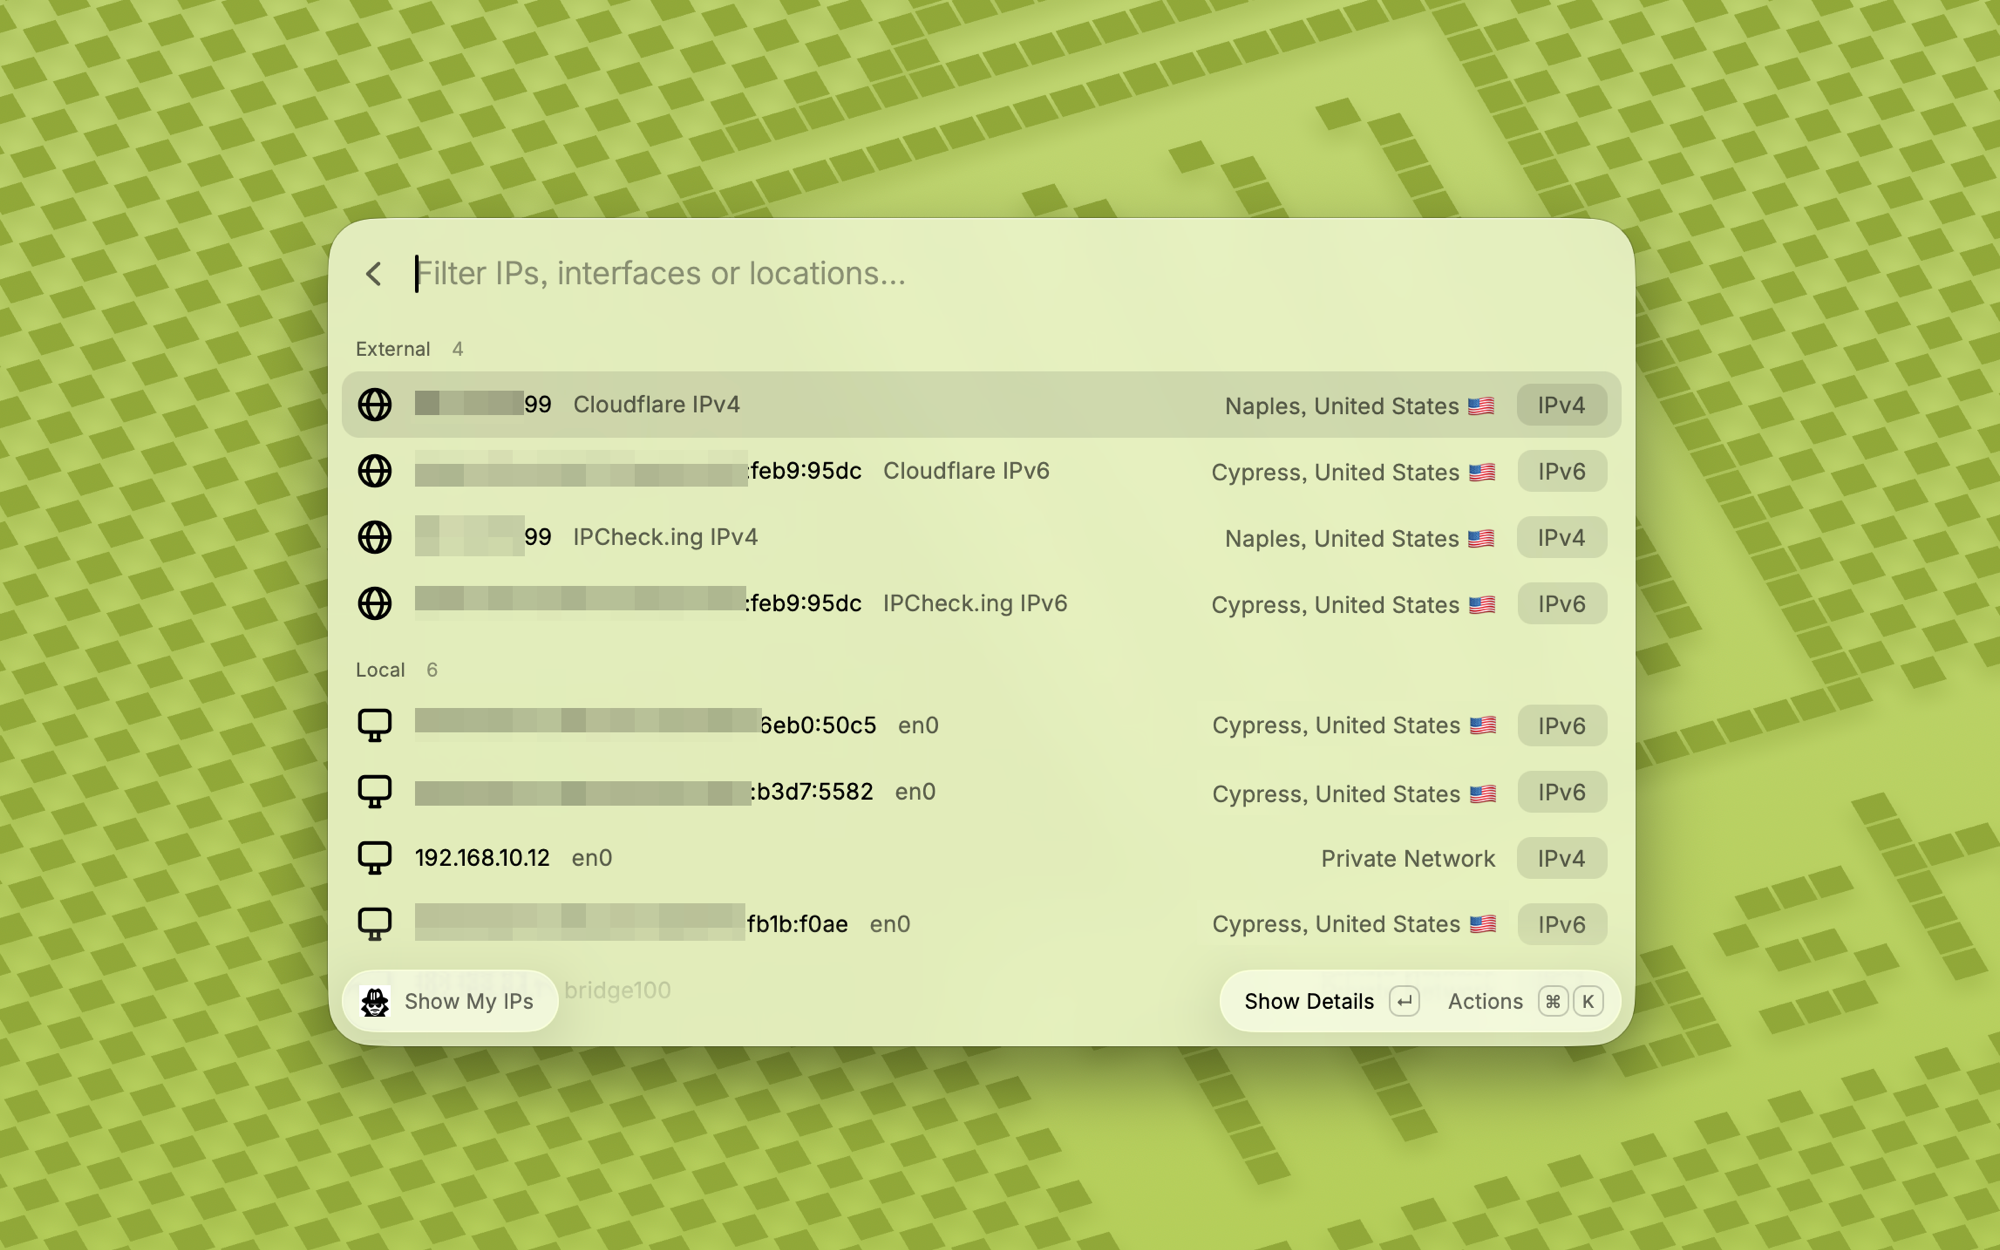
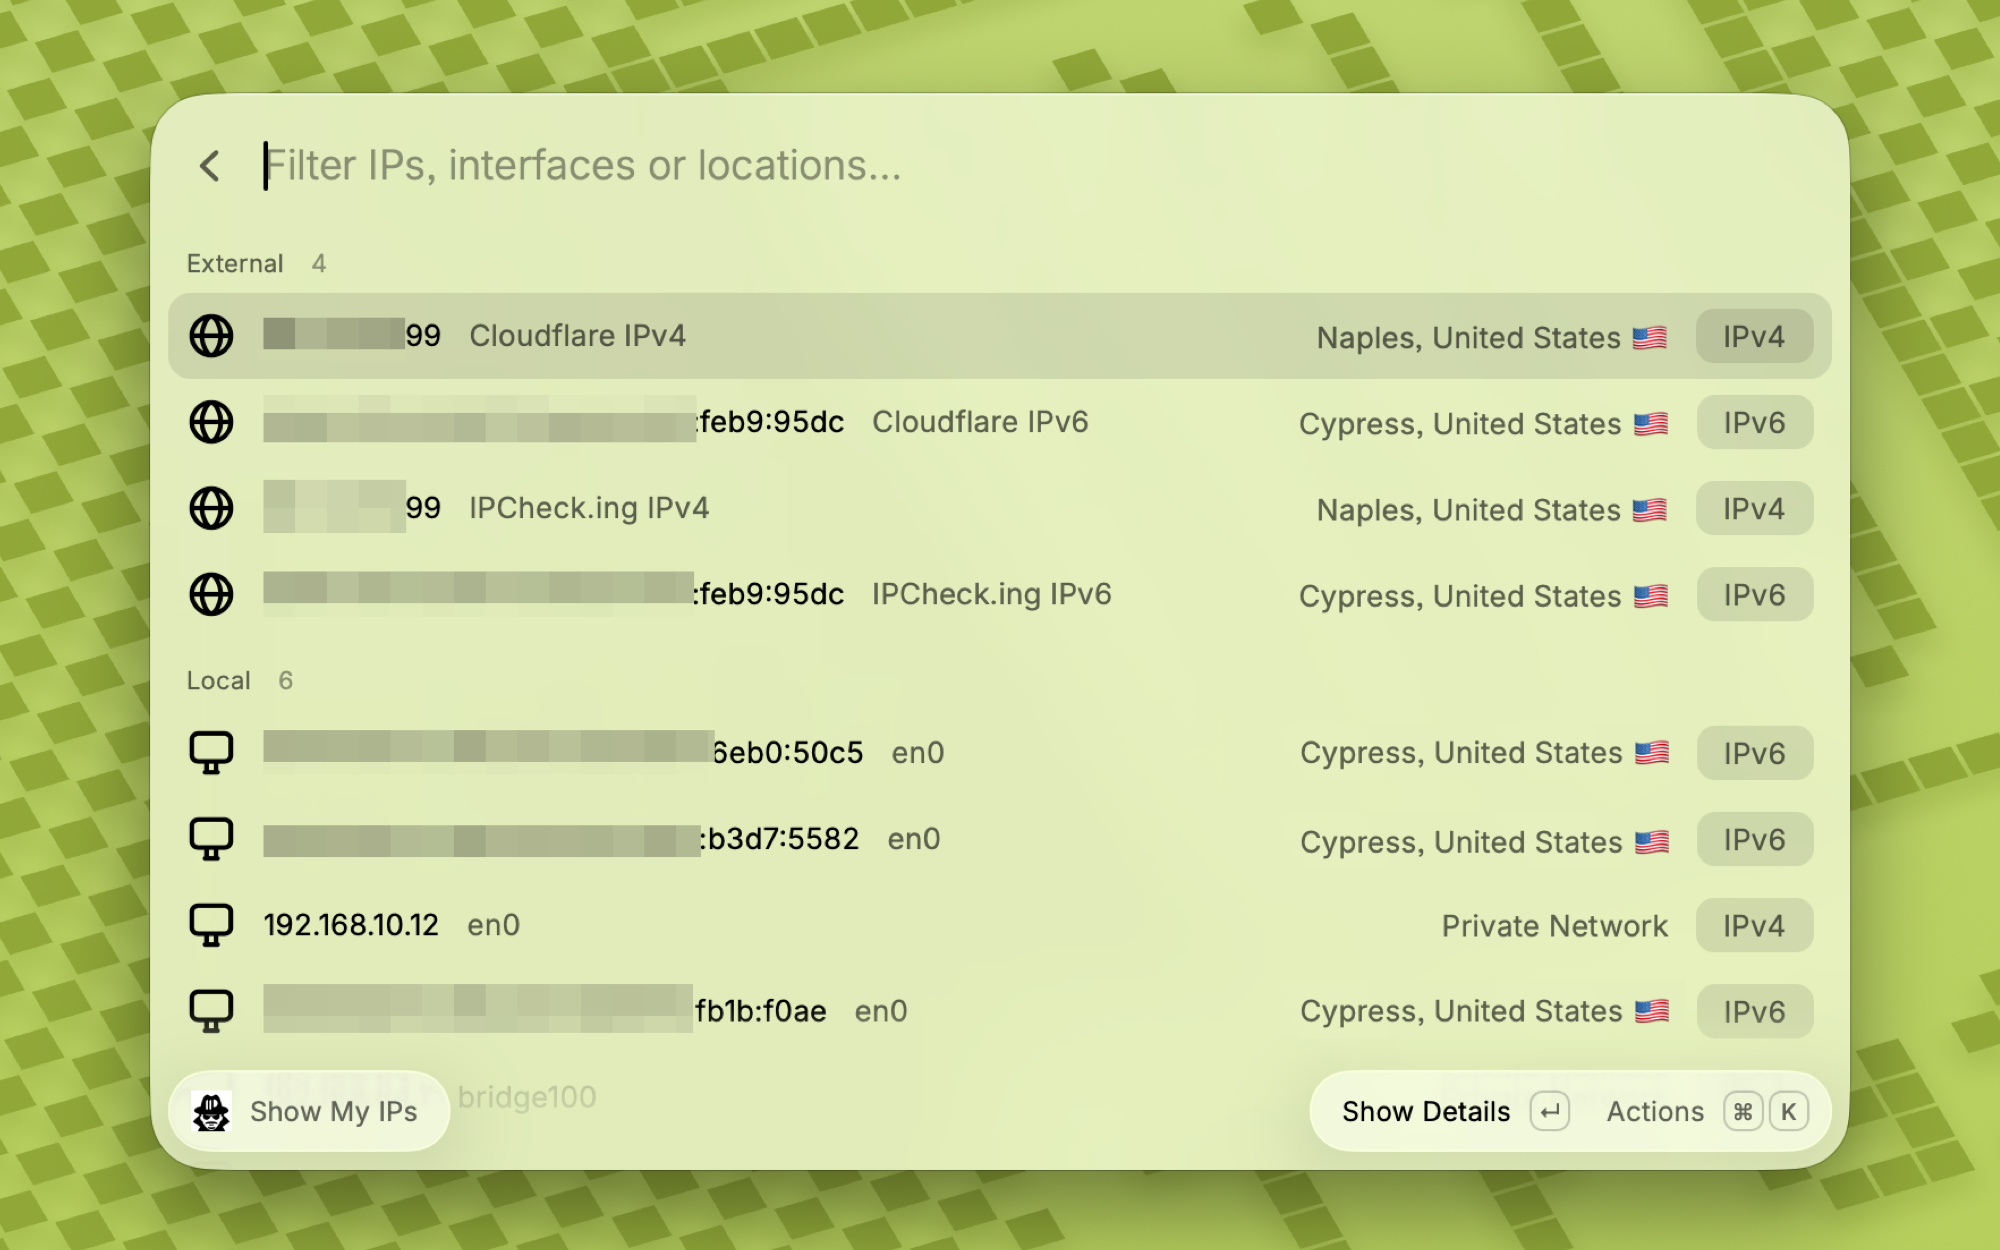
Update ipcheck-ing extension
- Change Screenshots
- fix: accept IPv4-mapped IPv6 addresses in Query IP

diff --git a/extensions/ipcheck-ing/src/lib/valid-ip.ts b/extensions/ipcheck-ing/src/lib/valid-ip.ts
@@ -14,9 +14,19 @@ export function isValidIP(ip: string): boolean {
   const hasCompressedGroup = doubleColonParts.length === 2;
   const groups = doubleColonParts.flatMap((part) => (part === "" ? [] : part.split(":")));
 
+  // An IPv4-mapped or IPv4-embedded tail ("::ffff:192.0.2.1") is a dotted quad in the last
+  // group, standing in for two hextets (RFC 4291 §2.5.5).
+  let hextetCount = groups.length;
+  const lastGroup = groups[groups.length - 1];
+  if (lastGroup !== undefined && lastGroup.includes(".")) {
+    if (!IPV4_PATTERN.test(lastGroup)) return false;
+    groups.pop();
+    hextetCount += 1;
+  }
+
   if (groups.some((group) => !/^[0-9a-f]{1,4}$/i.test(group))) return false;
 
-  return hasCompressedGroup ? groups.length < 8 : groups.length === 8;
+  return hasCompressedGroup ? hextetCount < 8 : hextetCount === 8;
 }
 
 /** The ':' separator only exists in v6. Does not validate — run isValidIP first. */
@@ -110,6 +120,7 @@ function describeReservedV6(ip: string): string | undefined {
 
   if (address === "::1") return "Loopback (RFC 4291)";
   if (address === "::") return "Unspecified (RFC 4291)";
+  if (/^::ffff:/i.test(address)) return "IPv4-mapped (RFC 4291)";
   if (h0 >= 0xfe80 && h0 <= 0xfebf) return "Link-local (RFC 4291)";
   if (h0 >= 0xfc00 && h0 <= 0xfdff) return "Unique local (RFC 4193)";
   if (h0 >= 0xff00) return "Multicast (RFC 4291)";
